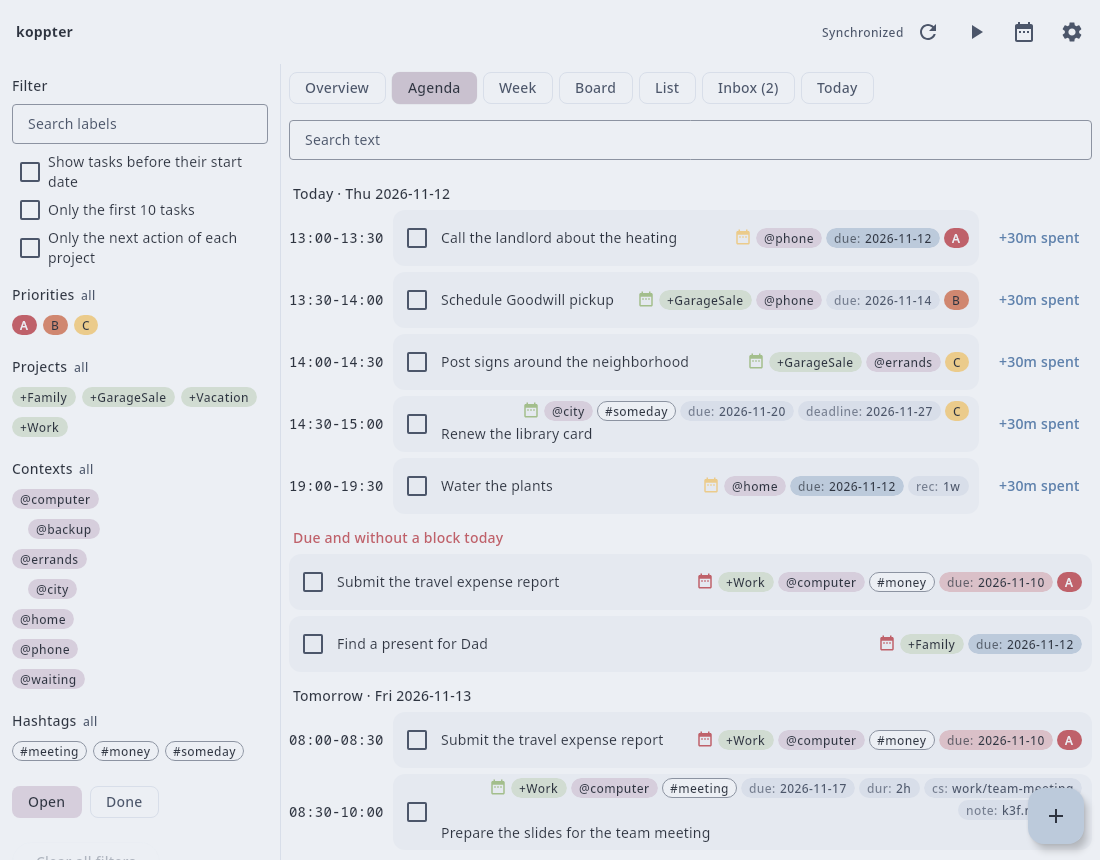
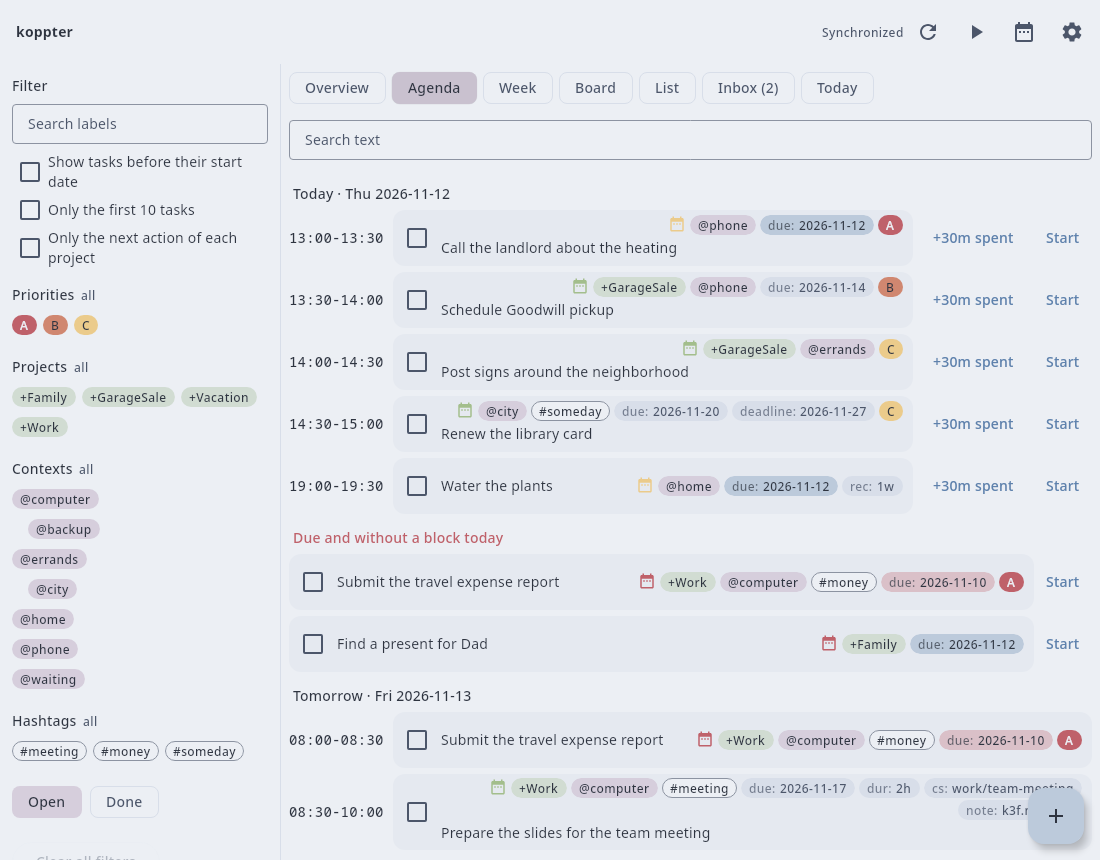
Add a clock that tracks the time worked on a task
Start beside a task of today writes started: into it; Stop, starting another task or completing it adds the time since then to spent:. A bar above every view shows the running task, so that a forgotten clock is seen.

diff --git a/app/src/commonMain/kotlin/io/github/koppor/koppter/ui/Agenda.kt b/app/src/commonMain/kotlin/io/github/koppor/koppter/ui/Agenda.kt
@@ -85,6 +85,8 @@ fun Agenda(
     onOpen: (Entry) -> Unit,
     onWorked: (Entry, Int) -> Unit,
     days: Int = 7,
+    running: Entry? = null,
+    onClock: (Entry) -> Unit = {},
 ) {
     // A block is counted once, also when the button is hit twice.
     val counted = remember { mutableStateListOf<TextBlock>() }
@@ -122,6 +124,7 @@ fun Agenda(
                             modifier = Modifier.testTag("agenda-worked"),
                         ) { Text("+${Task.durationText(block.span.length.minutes)} spent") }
                     }
+                    if (entry != null && offset == 0) ClockButton(entry, running, onClock)
                 }
             }
             if (offset == 0 && dueUnplanned.isNotEmpty()) {
@@ -131,7 +134,12 @@ fun Agenda(
                     color = MaterialTheme.colorScheme.error,
                     modifier = Modifier.padding(top = 8.dp, start = 4.dp).testTag("agenda-due"),
                 )
-                for (entry in dueUnplanned) TaskCard(entry, today, onToggle = { onToggle(entry) }, onOpen = { onOpen(entry) })
+                for (entry in dueUnplanned) {
+                    Row(verticalAlignment = Alignment.CenterVertically) {
+                        Box(Modifier.weight(1f)) { TaskCard(entry, today, onToggle = { onToggle(entry) }, onOpen = { onOpen(entry) }) }
+                        ClockButton(entry, running, onClock)
+                    }
+                }
             }
         }
     }
@@ -187,6 +195,41 @@ fun Week(blocks: List<TextBlock>?, entryOf: (TextBlock) -> Entry?, suffixOf: (En
                     }
                 }
             }
+        }
+    }
+}
+
+/** Starts the clock of the task, or stops it if it runs. */
+// [impl->dsn~time-tracking~1]
+@Composable
+private fun ClockButton(entry: Entry, running: Entry?, onClock: (Entry) -> Unit) {
+    TextButton(onClick = { onClock(entry) }, modifier = Modifier.testTag(if (entry == running) "clock-stop" else "clock-start")) {
+        Text(if (entry == running) "Stop" else "Start")
+    }
+}
+
+/** The task whose clock runs, with the time since its start; shown above every view. */
+// [impl->dsn~time-tracking~1]
+@Composable
+fun RunningClock(entry: Entry, now: kotlinx.datetime.LocalDateTime, onOpen: () -> Unit, onStop: () -> Unit) {
+    val started = entry.task.started ?: return
+    val elapsed = entry.task.runningFor(now)
+    Surface(color = MaterialTheme.colorScheme.secondaryContainer, modifier = Modifier.fillMaxWidth().testTag("running-clock")) {
+        Row(Modifier.padding(horizontal = 12.dp, vertical = 4.dp), verticalAlignment = Alignment.CenterVertically) {
+            Text(
+                entry.task.description,
+                style = MaterialTheme.typography.titleSmall,
+                maxLines = 1,
+                overflow = TextOverflow.Ellipsis,
+                modifier = Modifier.weight(1f).clickable(onClick = onOpen),
+            )
+            Text(
+                "since ${started.time.toString().take(5)} · ${Task.durationText(elapsed).ifEmpty { "0m" }}",
+                fontFamily = FontFamily.Monospace,
+                style = MaterialTheme.typography.labelLarge,
+                modifier = Modifier.padding(horizontal = 8.dp).testTag("running-clock-time"),
+            )
+            TextButton(onClick = onStop, modifier = Modifier.testTag("running-clock-stop")) { Text("Stop") }
         }
     }
 }
@@ -255,6 +298,8 @@ fun Today(
     onToggle: (Entry) -> Unit,
     onOpen: (Entry) -> Unit,
     onWorked: (Entry, Int) -> Unit,
+    running: Entry? = null,
+    onClock: (Entry) -> Unit = {},
 ) {
     val ofDay = blocks.orEmpty().filter { it.date == today }
     val planned = ofDay.filter { entryOf(it) != null }.sumOf { it.span.length }
@@ -273,7 +318,7 @@ fun Today(
             val wide = maxWidth >= 760.dp
             val height = maxHeight
             Row(Modifier.fillMaxSize(), horizontalArrangement = Arrangement.spacedBy(12.dp)) {
-                Box(Modifier.weight(1f)) { Agenda(blocks, dueUnplanned, entryOf, today, onToggle, onOpen, onWorked, days = 1) }
+                Box(Modifier.weight(1f)) { Agenda(blocks, dueUnplanned, entryOf, today, onToggle, onOpen, onWorked, days = 1, running = running, onClock = onClock) }
                 if (wide) {
                     val firstHour = minOf(8, ofDay.minOfOrNull { it.span.start / 60 } ?: 8, nowMinute / 60)
                     val lastHour = maxOf(18, ofDay.maxOfOrNull { (it.span.end + 59) / 60 } ?: 18, nowMinute / 60 + 1)

diff --git a/app/src/commonMain/kotlin/io/github/koppor/koppter/ui/App.kt b/app/src/commonMain/kotlin/io/github/koppor/koppter/ui/App.kt
@@ -397,6 +397,16 @@ private fun MainScreen(
                         VerticalDivider()
                     }
                     Column(Modifier.weight(1f)) {
+                        // The line of the current time and the clock of the running task move on once a minute.
+                        val minute by androidx.compose.runtime.produceState(controller.minuteOfDay()) {
+                            while (true) {
+                                delay(60_000)
+                                value = controller.minuteOfDay()
+                            }
+                        }
+                        val running = controller.running
+                        val clock: (Entry) -> Unit = { if (it == running) controller.stop(it) else controller.start(it) }
+                        running?.let { RunningClock(it, kotlinx.datetime.LocalDateTime(controller.today(), kotlinx.datetime.LocalTime(minute / 60, minute % 60)), onOpen = { editing = Editing(it) }, onStop = { controller.stop(it) }) }
                         ViewOptions(controller)
                         // A narrow screen gives the field no room above the list: there, it lies in the drawer, opened by the search button.
                         if (wideNow) searchField(Modifier.padding(8.dp))
@@ -408,16 +418,9 @@ private fun MainScreen(
                                 Overview(overviewStates(controller.visible, controller.today(), controller.overviewKey, controller.file.entries), controller.today(), controller::toggle, open, emptyText)
                             }
                         } else if (controller.view == View.AGENDA) {
-                            Agenda(controller.planBlocks, controller.dueUnplanned, controller::entryOf, controller.today(), controller::toggle, open, controller::worked)
+                            Agenda(controller.planBlocks, controller.dueUnplanned, controller::entryOf, controller.today(), controller::toggle, open, controller::worked, running = running, onClock = clock)
                         } else if (controller.view == View.TODAY) {
-                            // The line of the current time moves on once a minute.
-                            val now by androidx.compose.runtime.produceState(controller.minuteOfDay()) {
-                                while (true) {
-                                    delay(60_000)
-                                    value = controller.minuteOfDay()
-                                }
-                            }
-                            Today(controller.planBlocks, controller.dueUnplanned, controller::entryOf, controller::planSuffix, controller.today(), now, controller::toggle, open, controller::worked)
+                            Today(controller.planBlocks, controller.dueUnplanned, controller::entryOf, controller::planSuffix, controller.today(), minute, controller::toggle, open, controller::worked, running, clock)
                         } else if (controller.view == View.WEEK) {
                             Week(controller.planBlocks, controller::entryOf, controller::planSuffix, controller.today(), open)
                         } else if (controller.view == View.INBOX) {

diff --git a/core/src/commonMain/kotlin/io/github/koppor/koppter/todotxt/Task.kt b/core/src/commonMain/kotlin/io/github/koppor/koppter/todotxt/Task.kt
@@ -12,6 +12,7 @@ import kotlinx.datetime.plus
 import kotlinx.datetime.toInstant
 import kotlinx.datetime.toLocalDateTime
 import kotlin.time.Duration
+import kotlin.time.Duration.Companion.minutes
 
 /**
  * One task line of a todo.txt file.
@@ -101,6 +102,23 @@ data class Task(
 
     /** This task with [worked] added to the time spent on it. */
     fun withSpent(worked: Duration): Task = withTag(SPENT, durationText((spent ?: Duration.ZERO) + worked))
+
+    /** When the work on the task was started, while its clock runs; `null` if it does not run. */
+    // [impl->dsn~time-tracking~1]
+    val started: LocalDateTime? get() = tag(STARTED)?.let { runCatching { LocalDateTime.parse(it) }.getOrNull() }
+
+    /** This task with its clock running from [now]. */
+    fun start(now: LocalDateTime): Task = withTag(STARTED, now.toString())
+
+    /** The time since the start of the clock; zero if it does not run, or if [now] lies before the start, as after a change of the clock of the device. */
+    fun runningFor(now: LocalDateTime): Duration {
+        val started = started ?: return Duration.ZERO
+        val minutes = started.date.daysUntil(now.date) * 24 * 60 + (now.hour * 60 + now.minute) - (started.hour * 60 + started.minute)
+        return maxOf(0, minutes).minutes
+    }
+
+    /** This task with its clock stopped at [now] and the time since its start added to the time spent. */
+    fun stop(now: LocalDateTime): Task = withSpent(runningFor(now)).withTag(STARTED, null)
 
     /** The minutes of the day at which the task takes place, for a task with a fixed time. */
     // [impl->dsn~fixed-time~1]
@@ -210,7 +228,7 @@ data class Task(
         val from = if (recurrence.strict) due ?: threshold ?: today else today
         val next = recurrence.next(from)
         // The next occurrence starts anew: nothing was worked on it.
-        val open = (if (completed) reopen() else this).withTag(SPENT, null)
+        val open = (if (completed) reopen() else this).withTag(SPENT, null).withTag(STARTED, null)
         return when {
             due != null && threshold != null ->
                 open.withTag(DUE, next.toString()).withTag(THRESHOLD, next.minus(threshold.daysUntil(due), DateTimeUnit.DAY).toString())
@@ -247,6 +265,7 @@ data class Task(
         const val BY = "dueby"
         const val TRAVEL = "tt"
         const val SPENT = "spent"
+        const val STARTED = "started"
 
         /** As topydo writes dependencies: a task with [ID] waits for the tasks whose [PARENT] has the same value. */
         const val ID = "id"

diff --git a/app/src/commonMain/kotlin/io/github/koppor/koppter/ui/TodoController.kt b/app/src/commonMain/kotlin/io/github/koppor/koppter/ui/TodoController.kt
@@ -708,7 +708,10 @@ class TodoController(
         if (entry.task.completed) {
             write(file.replace(index, entry.task.reopen()), "Reopen task: ${entry.task.description}")
         } else {
-            var new = file.replace(index, entry.task.complete(today(), settings.writeDates))
+            // [impl->dsn~time-tracking~1]
+            // A task that is completed while its clock runs gets the time of the clock.
+            val task = if (entry.task.started != null) entry.task.stop(now()) else entry.task
+            var new = file.replace(index, task.complete(today(), settings.writeDates))
             // [impl->dsn~recurrence-on-completion~1]
             entry.task.nextOccurrence(today())?.let { new = new.add(it.created(today(), settings.writeDates)) }
             write(new, "Complete task: ${entry.task.description}")
@@ -819,6 +822,27 @@ class TodoController(
 
     /** Adds the minutes of a block of the plan to the time spent on its task. */
     // [impl->dsn~time-spent~1]
+    /** The current minute, as the clocks of tasks are written. */
+    fun now(): LocalDateTime = LocalDateTime(today(), LocalTime(minuteOfDay() / 60, minuteOfDay() % 60))
+
+    /** The open task whose clock runs; one at a time. */
+    // [impl->dsn~time-tracking~1]
+    val running: Entry? get() = file.entries.firstOrNull { !it.task.completed && it.task.started != null }
+
+    /** Starts the clock of the task and stops the one that ran, which gets its time. */
+    fun start(entry: Entry) {
+        val index = locate(entry) ?: return
+        var new = file
+        running?.takeIf { it.index != index }?.let { new = new.replace(it.index, it.task.stop(now())) }
+        write(new.replace(index, entry.task.start(now())), "Start working on: ${entry.task.description}")
+    }
+
+    /** Stops the clock of the task and adds its time to the time spent. */
+    fun stop(entry: Entry) {
+        val index = locate(entry) ?: return
+        write(file.replace(index, entry.task.stop(now())), "Stop working on: ${entry.task.description}")
+    }
+
     fun worked(entry: Entry, minutes: Int) {
         val index = locate(entry) ?: return
         write(file.replace(index, entry.task.withSpent(minutes.minutes)), "Note the time spent: ${entry.task.description}")

diff --git a/app/src/desktopTest/kotlin/io/github/koppor/koppter/ui/AppTest.kt b/app/src/desktopTest/kotlin/io/github/koppor/koppter/ui/AppTest.kt
@@ -1596,6 +1596,33 @@ class AppTest {
         assertEquals(true, storage.text.lines().any { it.startsWith("x ") && "Schedule pickup" in it })
     }
 
+    // [utest->dsn~time-tracking~1]
+    @Test
+    fun theClockOfATaskRunsUntilItIsStoppedOrAnotherOneStarts() = runComposeUiTest {
+        storage.companions["calendar.txt"] = """
+            2026-11-12 w46 Thu  09:00-09:30 Schedule pickup +GarageSale @phone
+            2026-11-12 w46 Thu  09:30-10:00 Post signs +GarageSale
+        """.trimIndent() + "\n"
+        var minute = 9 * 60
+        val controller = TodoController(Settings(), { storage }, today = { LocalDate(2026, 11, 12) }, minuteOfDay = { minute })
+        setContent { App(controller, "todo.txt") }
+        onNodeWithTag("agenda-switch").performClick()
+
+        onAllNodesWithTag("clock-start")[0].performClick()
+        assertTrue(storage.text.lines().any { "Schedule pickup" in it && "started:2026-11-12T09:00" in it })
+        onNodeWithTag("running-clock").assertExists()
+        // Starting another task stops the first one, which gets its time.
+        minute = 9 * 60 + 25
+        onAllNodesWithTag("clock-start")[0].performClick()
+        assertTrue(storage.text.lines().any { "Schedule pickup" in it && "spent:25m" in it && "started:" !in it })
+        assertEquals(1, storage.text.lines().count { "started:2026-11-12T09:25" in it })
+        minute = 10 * 60
+        onNodeWithTag("running-clock-stop").performClick()
+        assertTrue("started:" !in storage.text)
+        assertTrue(storage.text.lines().any { "spent:35m" in it })
+        onNodeWithTag("running-clock").assertDoesNotExist()
+    }
+
     // [utest->dsn~today~1]
     @Test
     fun todayShowsTheAgendaBesideTheDay() = runDesktopComposeUiTest(width = 1100, height = 860) {

diff --git a/core/src/commonTest/kotlin/io/github/koppor/koppter/todotxt/TaskTest.kt b/core/src/commonTest/kotlin/io/github/koppor/koppter/todotxt/TaskTest.kt
@@ -324,4 +324,20 @@ class TaskTest {
         assertEquals("spent:2h", Task.parse("Call Mom spent:1h").withSpent(1.hours).toLine().substringAfter("Mom "))
         assertEquals("Prepare the lecture @work due:2026-11-23 rec:+1w dur:4h", worked.nextOccurrence(today)?.toLine())
     }
+
+    // [utest->dsn~time-tracking~1]
+    @Test
+    fun theClockAddsTheTimeSinceItsStartToTheTimeSpent() {
+        val start = kotlinx.datetime.LocalDateTime(2026, 11, 19, 16, 50)
+        val running = Task.parse("Write the report dur:4h spent:1h").start(start)
+        assertEquals("Write the report dur:4h spent:1h started:2026-11-19T16:50", running.toLine())
+        assertEquals(start, running.started)
+        assertEquals(40.minutes, running.runningFor(kotlinx.datetime.LocalDateTime(2026, 11, 19, 17, 30)))
+        assertEquals("Write the report dur:4h spent:1h40m", running.stop(kotlinx.datetime.LocalDateTime(2026, 11, 19, 17, 30)).toLine())
+        // Over midnight.
+        assertEquals("Write the report dur:4h spent:8h20m", running.stop(kotlinx.datetime.LocalDateTime(2026, 11, 20, 0, 10)).toLine())
+        // A clock of the device that was set back adds nothing.
+        assertEquals("Write the report dur:4h spent:1h", running.stop(kotlinx.datetime.LocalDateTime(2026, 11, 19, 16, 0)).toLine())
+        assertEquals(null, Task.parse("Write the report rec:1w started:2026-11-19T16:50").nextOccurrence(today)!!.started)
+    }
 }

diff --git a/README.md b/README.md
@@ -241,6 +241,7 @@ The column *Source* names the tool or document that defines each of them; those 
 | `deadline:2026-11-30` | The day that others set for the task, next to the day to have it done by | This application | Field *Deadline* in the edit dialog, or typed into the task; see [Deadline next to the due date](#deadline-next-to-the-due-date) ([decision 0028](docs/decisions/0028-tag-for-the-deadline-next-to-the-due-date.md)). |
 | `at:12:00` | The time of the day at which the task takes place | This application | Field *Fixed time* in the edit dialog, or typed into the task. [Planning](#fixed-times) gives the task that time and plans the others around it ([decision 0021](docs/decisions/0021-tag-for-the-fixed-time-of-a-task.md)). |
 | `spent:1h30m` | The time that was worked on the task so far | This application | Field *Time spent* in the edit dialog, the button of a block in the agenda, or typed into the task. [Planning](#time-spent) gives the task the rest of its duration ([decision 0034](docs/decisions/0034-tag-for-the-time-spent-on-a-task.md)). |
+| `started:2026-11-19T16:50` | The start of the clock of the task, while it runs | This application | *Start* beside a task of today in the agenda or in *Today*; *Stop* adds the time since then to `spent:` and removes the tag ([decision 0044](docs/decisions/0044-clock-of-a-task-as-a-tag-with-its-start.md)). |
 | `tt:30m` | The time that the way to the task takes, and the way back as well | This application | Field *Travel time* in the edit dialog, or typed into the task. [Planning](#travel-time) keeps that time free before and after the task ([decision 0023](docs/decisions/0023-tag-for-the-travel-time-of-a-task.md)). |
 | `id:1`, `p:1` | The task with `id:1` waits for the tasks with `p:1`, as topydo writes dependencies | [topydo](https://github.com/topydo/topydo/wiki/Dependencies) | Typed into the task. [Planning](#planning) gives the task its times after those it waits for ([decision 0020](docs/decisions/0020-dependencies-with-the-tags-of-topydo.md)). |
 | `cs:jabref/fix-npe` | The task of [ContextSwitcher](https://github.com/contextswitcher/contextswitcher) that holds the working context | This application | Entered in the field *ContextSwitcher task* of the edit dialog or typed into the task, as the id or as the link that *Copy link* of ContextSwitcher gives, which becomes the tag. A click on the label switches to the task in ContextSwitcher, on a computer where it has registered its links ([decision 0016](docs/decisions/0016-tag-for-the-task-of-contextswitcher.md)). |
@@ -582,6 +583,10 @@ A task with the tag `spent:` was worked on already: the plan gives it the rest o
 * In the agenda, each block of today has a button such as *+45m spent*, which adds the length of the block to the tag.
 * The field *Time spent* of the edit dialog holds the sum and corrects it.
 * A completed task keeps both tags and tells what it was estimated at and what it took; the next occurrence of a recurring task starts without time spent.
+
+*Start* beside a task of today in the agenda and in *Today* starts its clock, and writes the start into the task, such as `started:2026-11-19T16:50`.
+A bar above every view then shows the task, the start and the time since it.
+*Stop* there or beside the task adds that time to `spent:` and removes the start; starting another task stops the clock that runs, and completing the task stops its own ([decision 0044](docs/decisions/0044-clock-of-a-task-as-a-tag-with-its-start.md)).
 
 ### Travel time
 

diff --git a/docs/decisions/0044-clock-of-a-task-as-a-tag-with-its-start.md b/docs/decisions/0044-clock-of-a-task-as-a-tag-with-its-start.md
@@ -1,0 +1,48 @@
+---
+status: accepted
+date: 2026-11-19
+decision-makers: Oliver Kopp
+---
+
+# Clock of a Task as a Tag with Its Start
+
+`adr~clock-tag~1`
+
+Needs: dsn
+
+## Context and Problem Statement
+
+The tag `spent:` holds the time worked on a task ([decision 0034](0034-tag-for-the-time-spent-on-a-task.md)).
+It is written by hand or by a button of a block of the agenda, which assumes that the work took the block.
+Tools such as the status tracker of SkedPal start a clock when the work begins and count the time until it stops.
+Where does koppter keep a clock that runs, so that it survives a restart and is seen on another device?
+
+## Considered Options
+
+* A tag `started:` with the start on the task
+* A log file next to todo.txt with the start and end of each time worked
+* The start in the settings of the device
+
+## Decision Outcome
+
+Chosen option: "A tag `started:` with the start on the task", because the time ends up in `spent:` anyway, and the line of the task is synchronized with it.
+
+### Consequences
+
+* Good, because the clock runs on in the file: a restart, another device or a synchronization through git shows it.
+* Good, because stopping it writes the sum that the plan already reads, without a second store.
+* Bad, because the file does not tell on which days and at which times the task was worked, as with `spent:` alone.
+* Bad, because starting and stopping each change the line, so that each is a commit in a git repository.
+
+## Pros and Cons of the Options
+
+### A log file next to todo.txt with the start and end of each time worked
+
+* Good, because it tells when it was worked, which reports and invoices need, and holds activities that are no task.
+* Bad, because it is a second store whose lines name tasks by their text, which changes when a task is edited.
+* Bad, because the plan reads the sum only, which would be computed from the log or kept twice.
+
+### The start in the settings of the device
+
+* Good, because the todo.txt file does not change while the clock runs.
+* Bad, because another device does not see the clock, and a clock started there is stopped nowhere else.

diff --git a/skills/koppter-tasks/SKILL.md b/skills/koppter-tasks/SKILL.md
@@ -59,6 +59,7 @@ koppter writes tasks in that order, so a line written the same way does not chan
 | `t:2027-01-10` | The day from which the task is worth looking at | The task is hidden and not planned before. Use it for "not now" and "some day". |
 | `dur:1h30m` | The time the task takes | Without it, the plan assumes half an hour. Give it when the user states it or the task clearly takes longer. |
 | `spent:1h30m` | The time that was worked on the task so far | Only when the user says how long they worked on a task that is not done: add it to the value that is there. The plan gives the task the rest of `dur:`, so leave `dur:` as it is. |
+| `started:2026-11-19T16:50` | The start of the clock of the task, which runs | Do not add it; koppter writes it. When the user says they stopped working on such a task, add the minutes since then to `spent:` and remove the tag. |
 | `tt:30m` | The time that the way to the task takes; the way back counts the same | Only when the user states it for a task that takes place somewhere else. The plan keeps it free before and after the task. |
 | `at:14:00` | The time of the day at which the task takes place | Only for what has its time: an appointment, lunch, a training. The plan does not move the task. The day is `due:`, else `t:`, else today. |
 | `#hashtag` | A property shared across projects | `#money`, `#quick`. Starts with a letter or a currency sign. `#someday` marks a task that is not decided yet: it is not a next action of its project either. |

diff --git a/docs/requirements/planning.md b/docs/requirements/planning.md
@@ -153,6 +153,18 @@ Covers:
 
 Needs: dsn
 
+### Time tracking
+`req~time-tracking~1`
+
+The user starts a clock on a task when beginning to work on it and stops it when pausing or done; the time in between adds to the time spent.
+One clock runs at a time, and the task whose clock runs is always visible.
+
+Covers:
+
+* `feat~planning~1`
+
+Needs: dsn
+
 ### Plan as a file
 `req~plan-file~1`
 
@@ -557,6 +569,21 @@ Both views show what the file says and do not plan.
 Covers:
 
 * `req~agenda~1`
+
+Needs: impl, utest
+
+### Clock of a task
+`dsn~time-tracking~1`
+
+The tag `started:` holds the local date and minute of the start of the clock, such as `started:2026-11-19T16:50`; `Task.started` reads it.
+`Task.stop` adds the minutes since then to `spent:` through `Task.withSpent` and removes the tag; a start after the current time adds nothing.
+`TodoController.start` stops the clock that runs, in the same write, and `TodoController.toggle` stops the clock of a task that is completed; the next occurrence of a recurring task has no clock.
+The agenda and today have *Start* or *Stop* beside each task of today, and a bar above every view shows the task whose clock runs, its start and the time since it, with *Stop*.
+
+Covers:
+
+* `req~time-tracking~1`
+* `adr~clock-tag~1`
 
 Needs: impl, utest
 

diff --git a/CHANGELOG.md b/CHANGELOG.md
@@ -9,6 +9,7 @@ and this project adheres to [Calendar Versioning](https://calver.org/) with the 
 
 ### Added
 
+- *Start* beside a task of today in the agenda and in *Today* starts a clock on it, written as `started:` into the task; a bar above every view shows the task and the time since its start, and *Stop* adds that time to `spent:`.
 - *Today* shows the agenda of today beside the day as a calendar with a line at the current time and the sum of the planned time; Ctrl+7 opens it.
 - The settings show the shared lists as rows with their context, *Check* for the connection of a repository and *Remove*; *Add folder* adds a folder on the desktop.
 - The `ice_recur.txt` of a shared list schedules tasks into that list.
